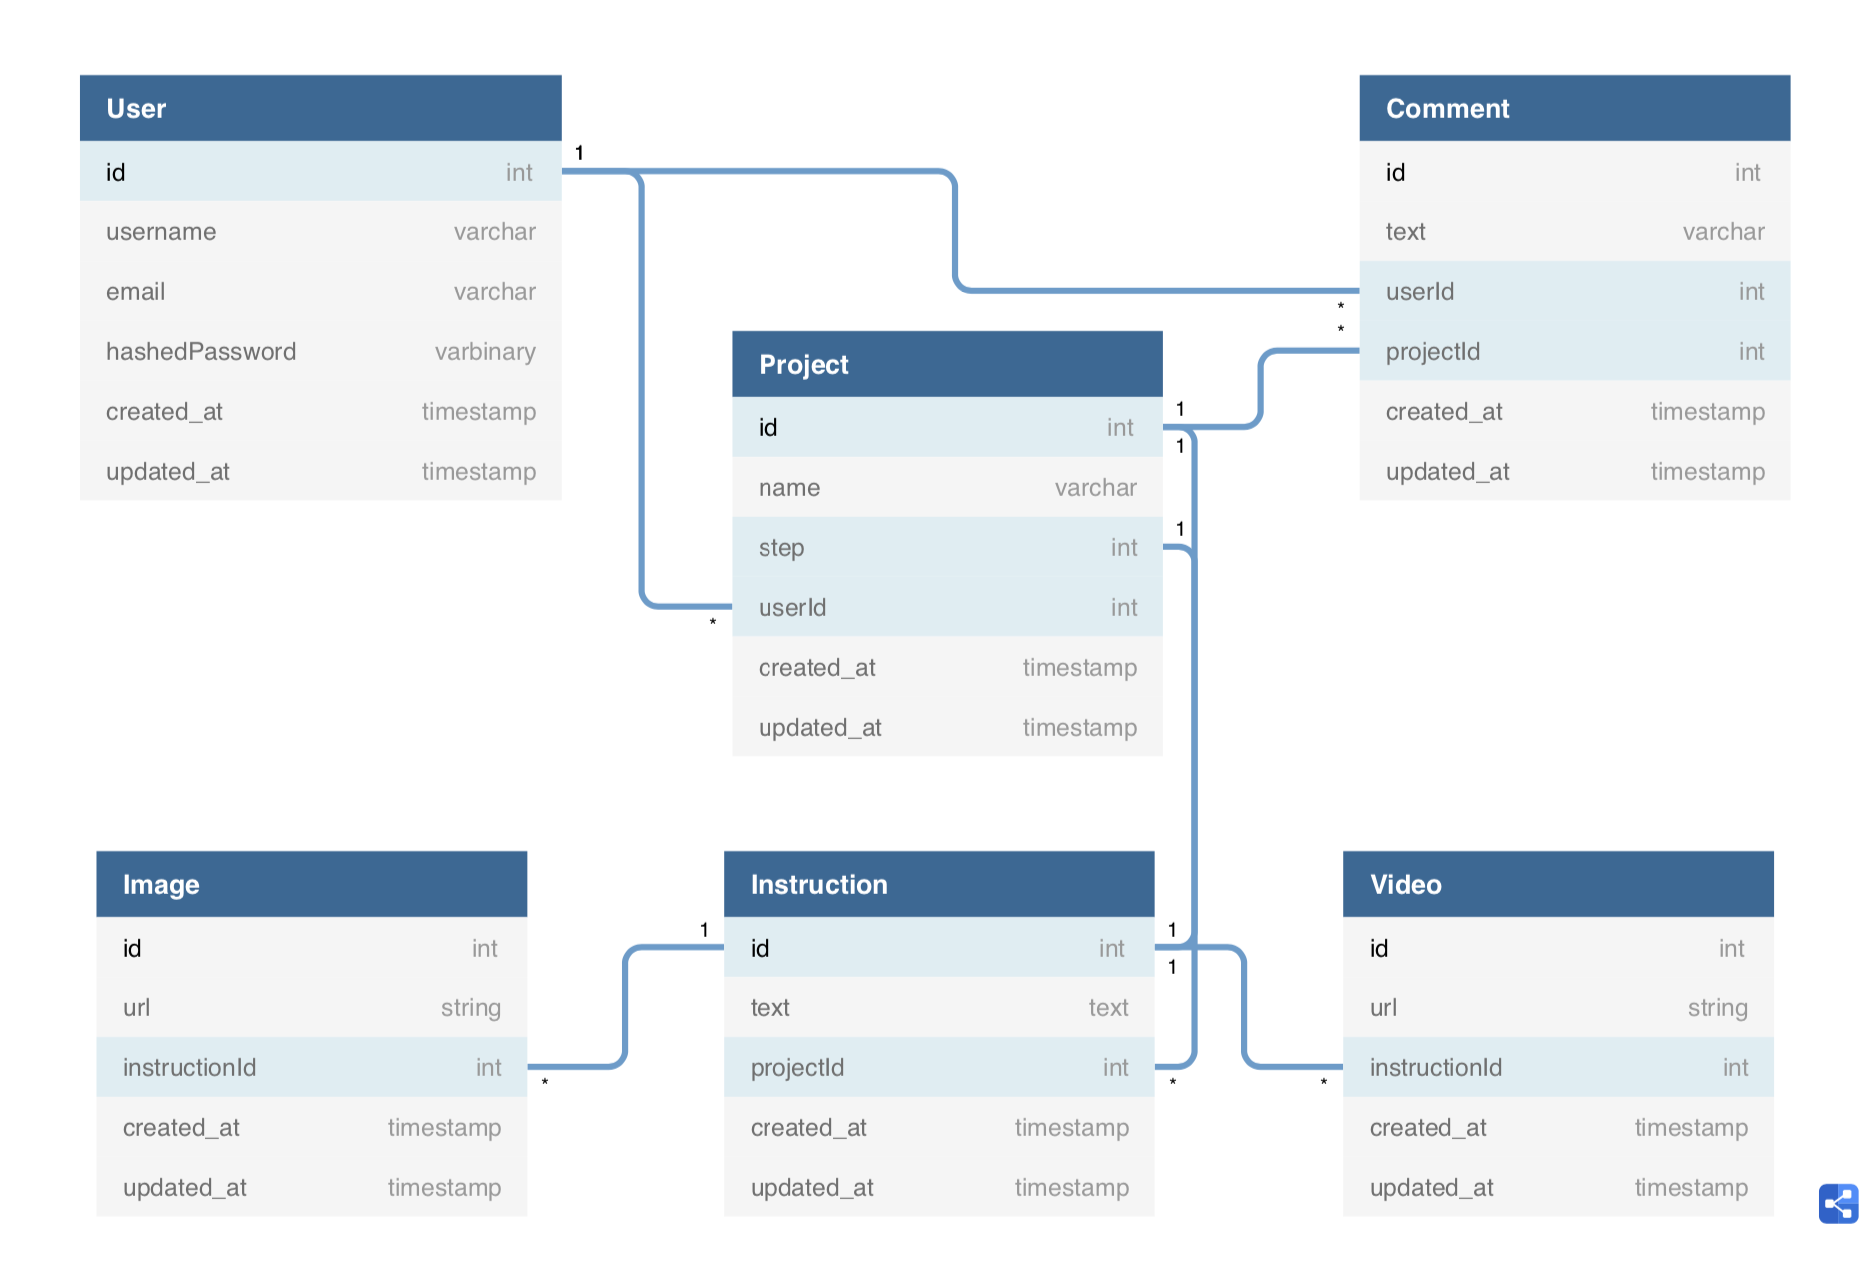
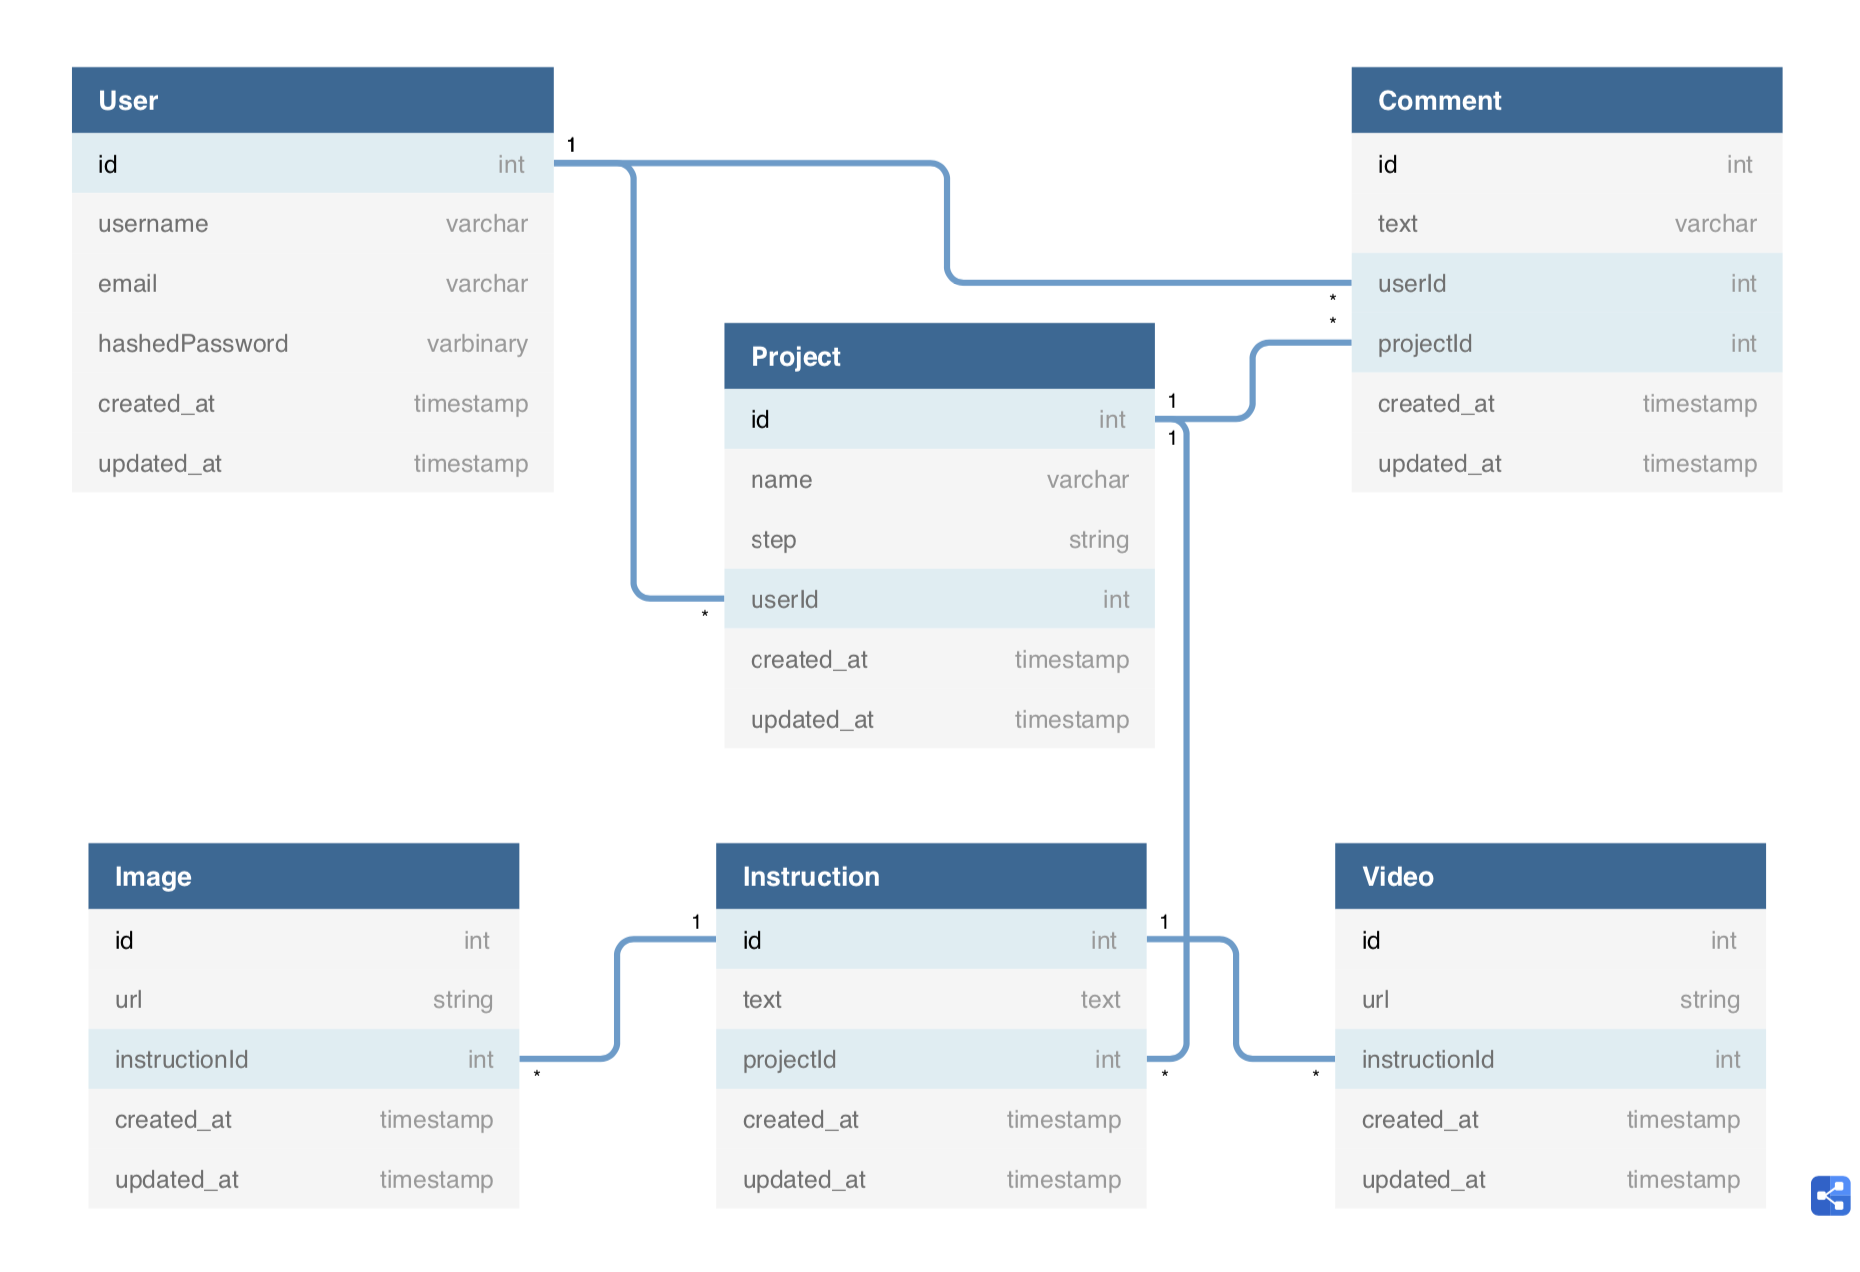
- Update db-schema.png - Update migrations and models   - Remove reference error with Instruction

diff --git a/backend/db/seeders/20201030163017-demo-user.js b/backend/db/seeders/20201030163017-demo-user.js
@@ -20,6 +20,41 @@ module.exports = {
         username: 'FakeUser2',
         hashedPassword: bcrypt.hashSync(faker.internet.password()),
       },
+      {
+        email: faker.internet.email(),
+        username: faker.internet.userName(),
+        hashedPassword: bcrypt.hashSync(faker.internet.password()),
+      },
+      {
+        email: faker.internet.email(),
+        username: faker.internet.userName(),
+        hashedPassword: bcrypt.hashSync(faker.internet.password()),
+      },
+      {
+        email: faker.internet.email(),
+        username: faker.internet.userName(),
+        hashedPassword: bcrypt.hashSync(faker.internet.password()),
+      },
+      {
+        email: faker.internet.email(),
+        username: faker.internet.userName(),
+        hashedPassword: bcrypt.hashSync(faker.internet.password()),
+      },
+      {
+        email: faker.internet.email(),
+        username: faker.internet.userName(),
+        hashedPassword: bcrypt.hashSync(faker.internet.password()),
+      },
+      {
+        email: faker.internet.email(),
+        username: faker.internet.userName(),
+        hashedPassword: bcrypt.hashSync(faker.internet.password()),
+      },
+      {
+        email: faker.internet.email(),
+        username: faker.internet.userName(),
+        hashedPassword: bcrypt.hashSync(faker.internet.password()),
+      },
     ], {});
   },
 

diff --git a/backend/db/models/instruction.js b/backend/db/models/instruction.js
@@ -13,7 +13,6 @@ module.exports = (sequelize, DataTypes) => {
   Instruction.associate = function(models) {
     // associations can be defined here
     Instruction.belongsTo(models.Project, { foreignKey: 'projectId' });
-    Instruction.belongsTo(models.Project, { foreignKey: 'step' });
     Instruction.hasMany(models.Image, { foreignKey: 'instructionId' });
     Instruction.hasMany(models.Video, { foreignKey: 'instructionId' });
   };

diff --git a/backend/db/models/project.js b/backend/db/models/project.js
@@ -21,7 +21,6 @@ module.exports = (sequelize, DataTypes) => {
     // associations can be defined here
     Project.belongsTo(models.User, { foreignKey: 'userId' });
     Project.hasMany(models.Comment, { foreignKey: 'projectId' });
-    Project.belongsTo(models.Instruction, { foreignKey: 'step' });
   };
   return Project;
 };

diff --git a/backend/db/migrations/20201228221045-create-project.js b/backend/db/migrations/20201228221045-create-project.js
@@ -13,9 +13,8 @@ module.exports = {
         allowNull: false,
       },
       step: {
-        type: Sequelize.INTEGER,
+        type: Sequelize.STRING,
         allowNull: false,
-        references: { model: 'Instructions' },
       },
       userId: {
         type: Sequelize.INTEGER,

diff --git a/backend/db/migrations/20201228221253-create-instruction.js b/backend/db/migrations/20201228221253-create-instruction.js
@@ -6,7 +6,7 @@ module.exports = {
         allowNull: false,
         autoIncrement: true,
         primaryKey: true,
-        type: Sequelize.INTEGER
+        type: Sequelize.INTEGER,
       },
       text: {
         type: Sequelize.TEXT,
